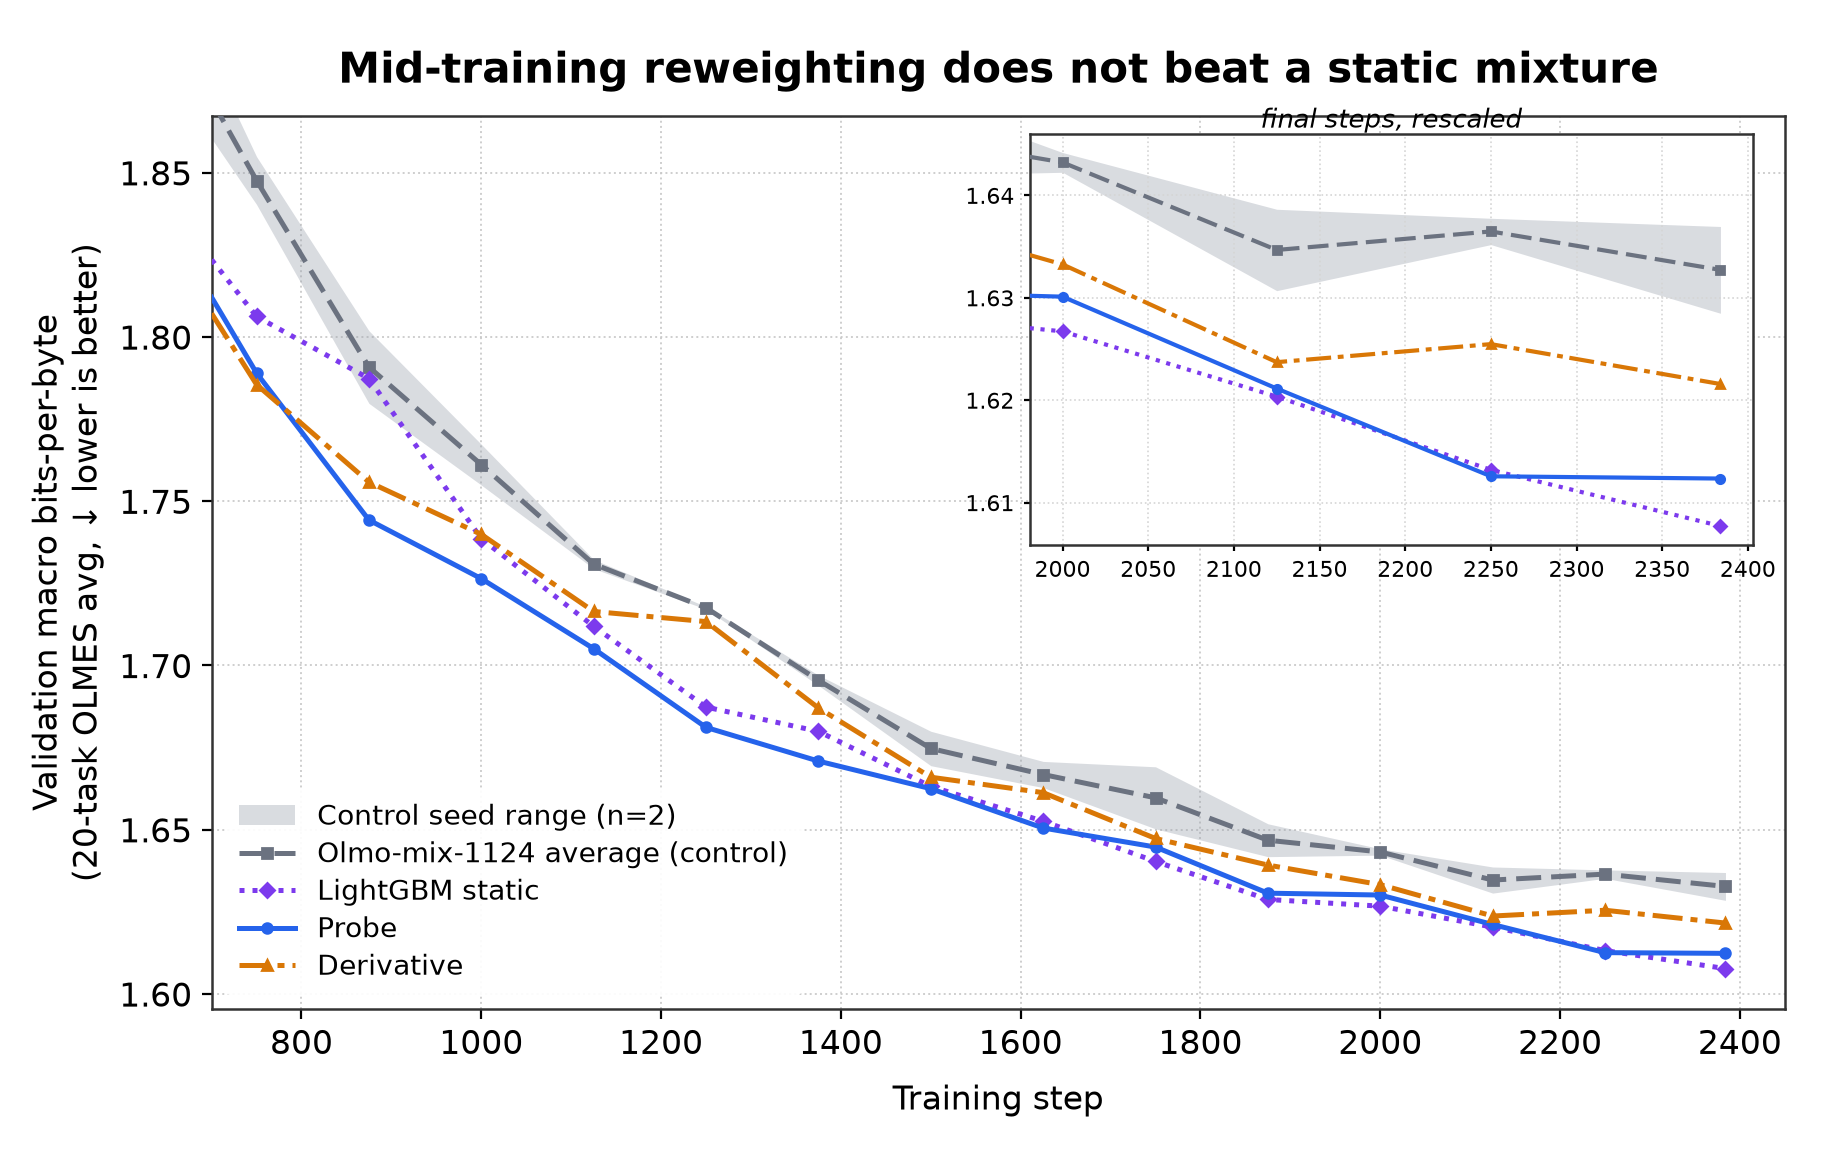
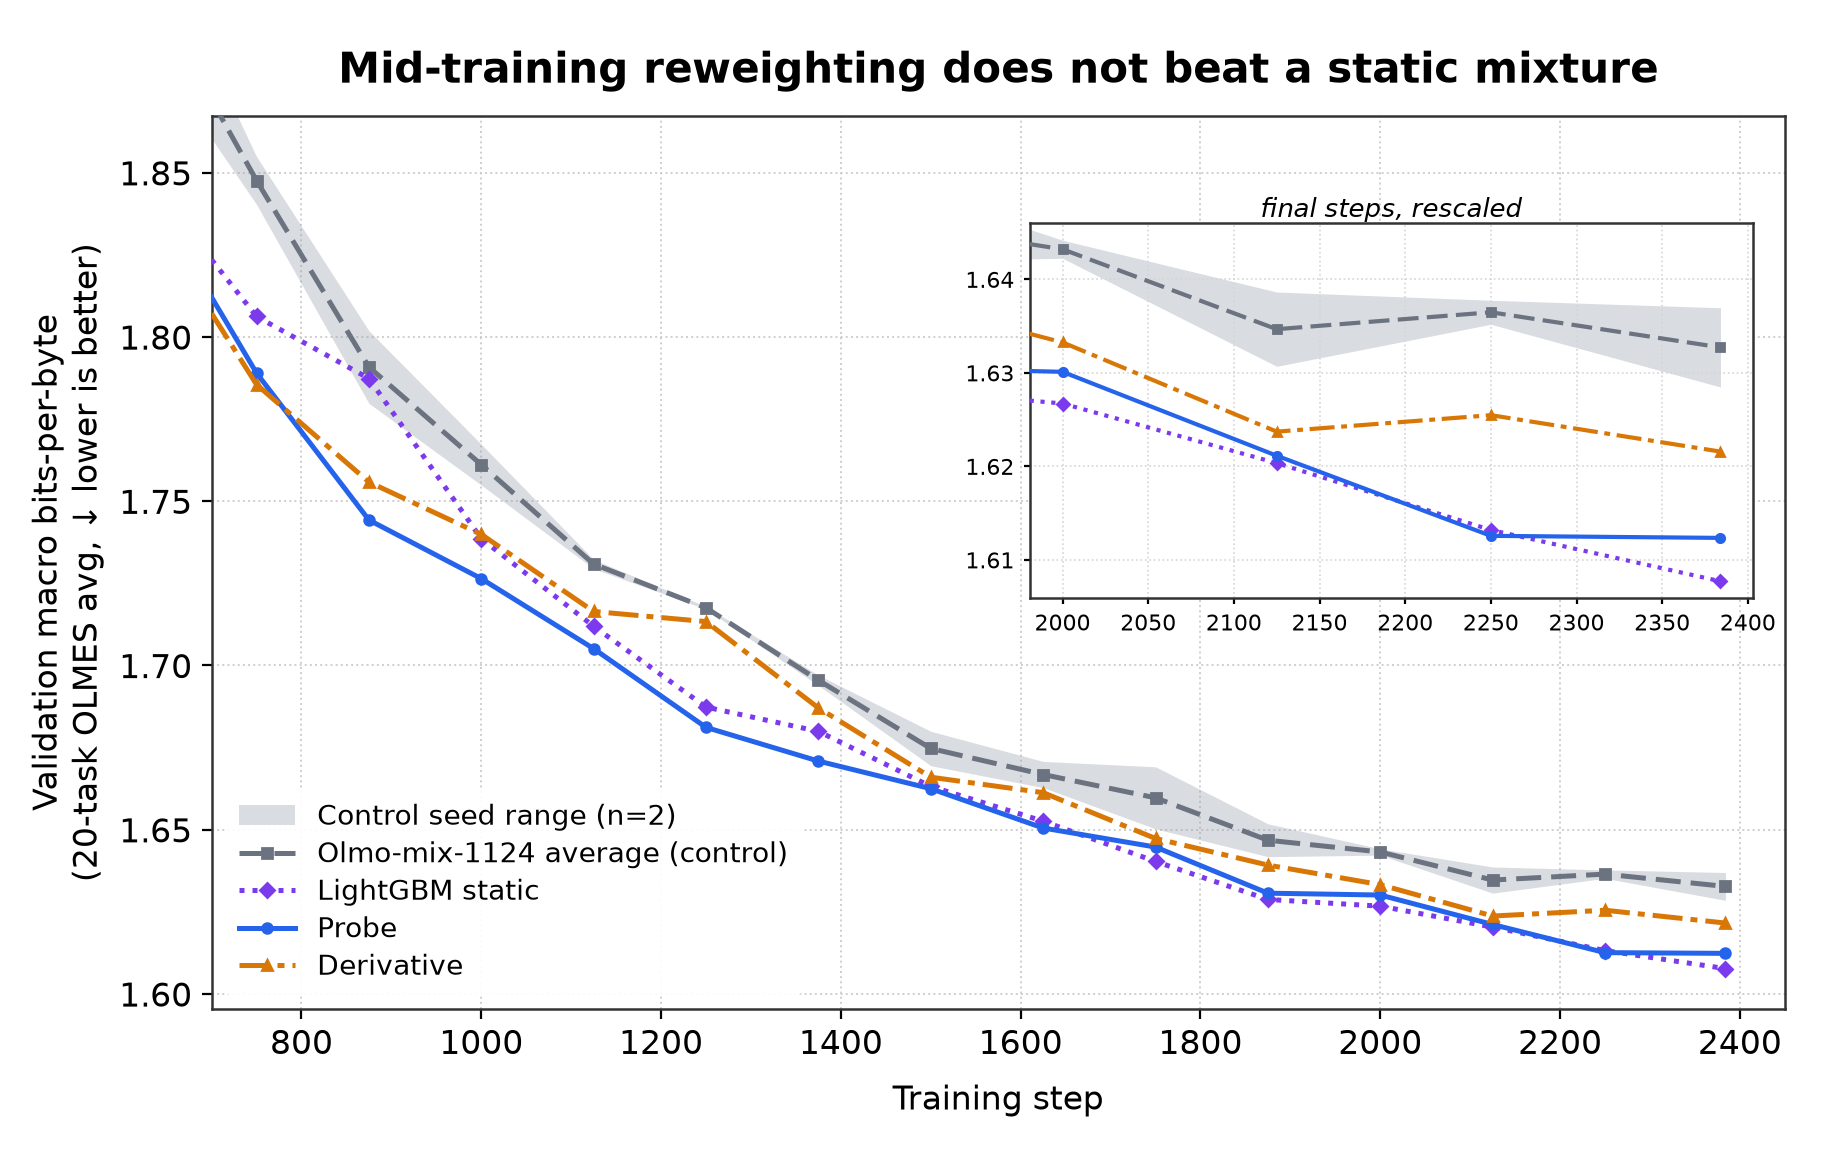
Give Figure II's inset title room to clear the axes box
Restoring the full axes box in the previous commit left the inset title with
nowhere to sit: the inset ran to 0.98 of the axes height, so "final steps,
rescaled" landed on the top spine. Figure I's inset never had this problem
because it is placed in figure coordinates well below its own axes top.

The inset now tops out at 0.88 instead, which clears the title and still
leaves it above every curve in that x-range.

diff --git a/experiments/skill-dag/skillit/plot_figure_ii_dynamic_reweighting.py b/experiments/skill-dag/skillit/plot_figure_ii_dynamic_reweighting.py
@@ -164,7 +164,9 @@ fig.subplots_adjust(left=0.115, right=0.97, top=0.90, bottom=0.13)
 # Inset: final steps, rescaled
 # (sized/positioned to leave room for the larger tick labels and title
 # below without colliding with the main plot's right/top edges)
-axins = ax.inset_axes([0.52, 0.52, 0.46, 0.46])
+# Top at 0.88 of the axes, not 0.98: restoring the full axes box left the
+# inset title with no clearance and it collided with the top spine.
+axins = ax.inset_axes([0.52, 0.46, 0.46, 0.42])
 ins_steps, ins_lo, ins_hi = control_band(1900)
 axins.fill_between(ins_steps, ins_lo, ins_hi, color=CONTROL_BAND_COLOR, alpha=0.38,
                    linewidth=0, zorder=1)
